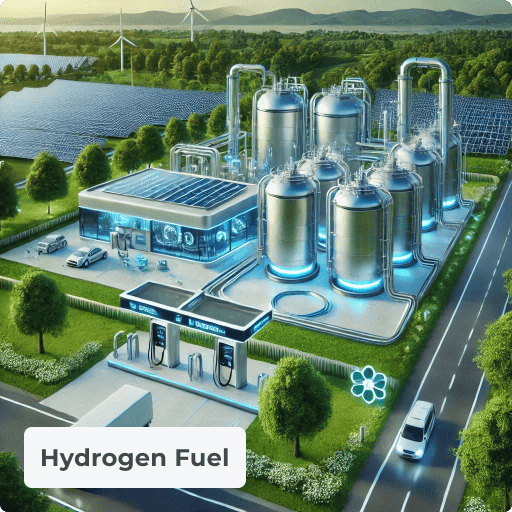
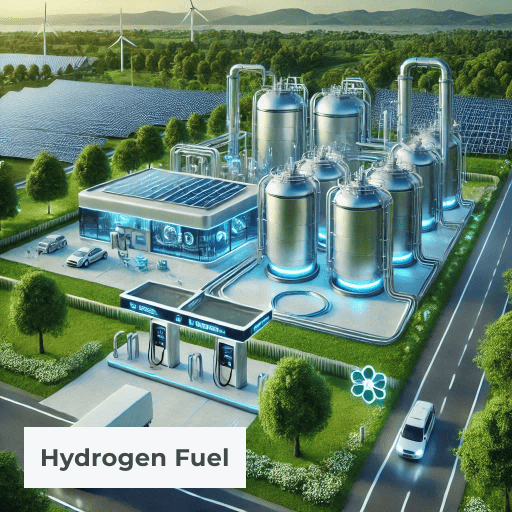
border added

diff --git a/css/styles.css b/css/styles.css
@@ -383,6 +383,8 @@ form section .input-container textarea {
 
 .industry-img {
   width: 60%;
+  border-radius: 8px;
+  border: 5px solid var(--secondary-color);
 }
 
 @media (min-width: 768px) {
